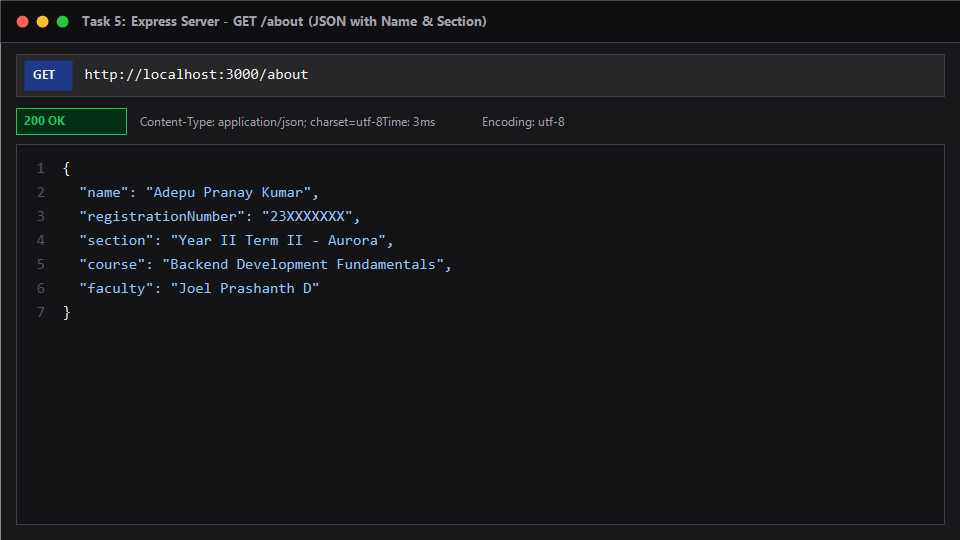
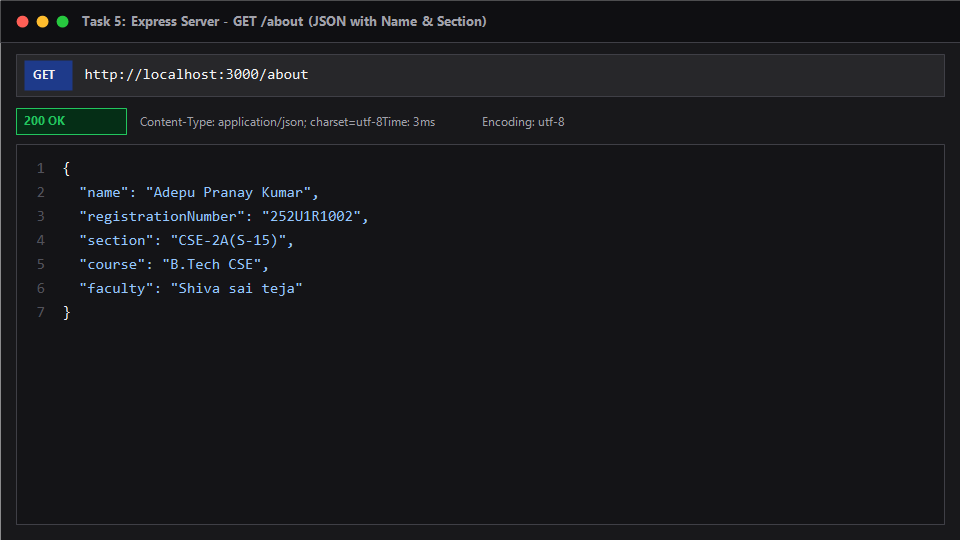
docs(lab-01): update student registration number, section, and course details

Changed region(s): [[0.1875, 0.3852, 0.4688, 0.563]]

diff --git a/lab-01/server.js b/lab-01/server.js
@@ -22,9 +22,9 @@ app.get('/', (req, res) => {
 app.get('/about', (req, res) => {
   res.status(200).json({
     name: 'Adepu Pranay Kumar',
-    registrationNumber: '23XXXXXXX', // Update with exact registration number if needed
-    section: 'Year II Term II - Aurora',
-    course: 'Backend Development Fundamentals',
+    registrationNumber: '252U1R1002',
+    section: 'CSE-2A(S-15)',
+    course: 'B.Tech CSE',
     faculty: 'Shiva sai teja'
   });
 });

diff --git a/README.md b/README.md
@@ -1,7 +1,9 @@
 # Backend Development Fundamentals — Labs Repository
 
 **Student Name:** Adepu Pranay Kumar  
-**Course:** Backend Development Fundamentals (Year II Term II)  
+**Registration Number:** 252U1R1002  
+**Section:** CSE-2A(S-15)  
+**Course:** B.Tech CSE (Backend Development Fundamentals - Year II Term II)  
 **Institution:** Aurora  
 **Faculty:** Shiva sai teja 
 

diff --git a/lab-01/README.md b/lab-01/README.md
@@ -1,9 +1,9 @@
 # Lab 1: Node.js and Express server
 
 **Name:** Adepu Pranay Kumar  
-**Registration Number:** 23XXXXXXX  
-**Section:** Year II Term II - Aurora  
-**Course:** Backend Development Fundamentals  
+**Registration Number:** 252U1R1002  
+**Section:** CSE-2A(S-15)  
+**Course:** B.Tech CSE (Backend Development Fundamentals)  
 **Faculty:** Shiva sai teja  
 
 ---
